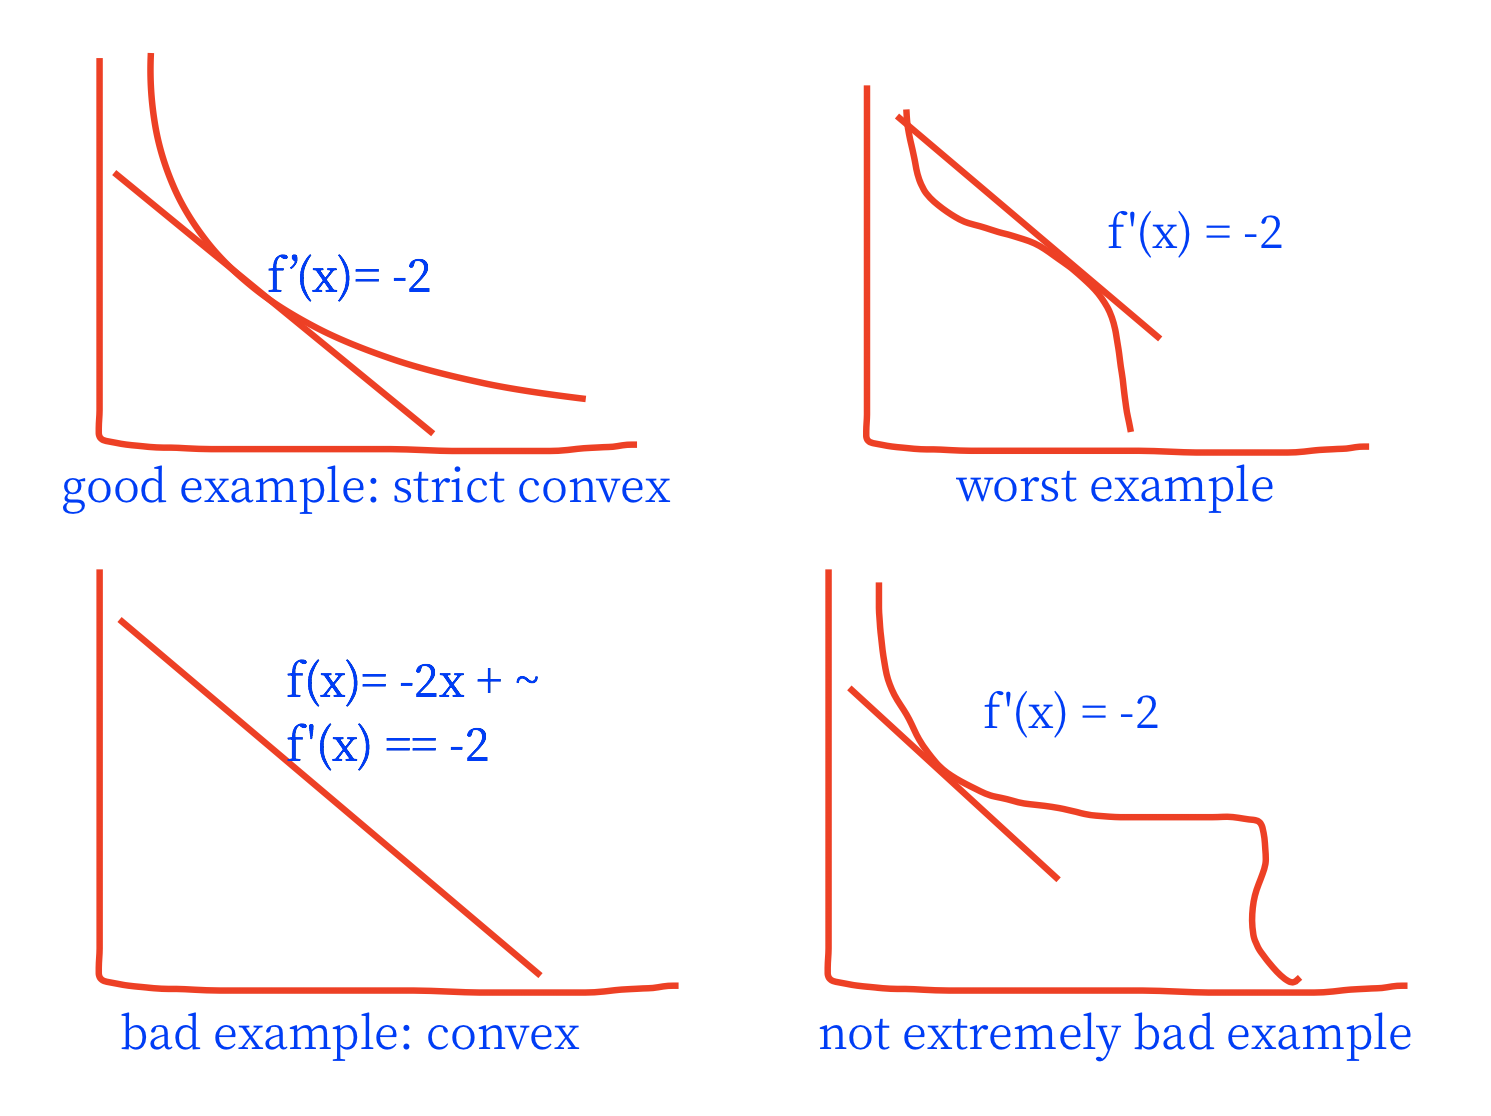
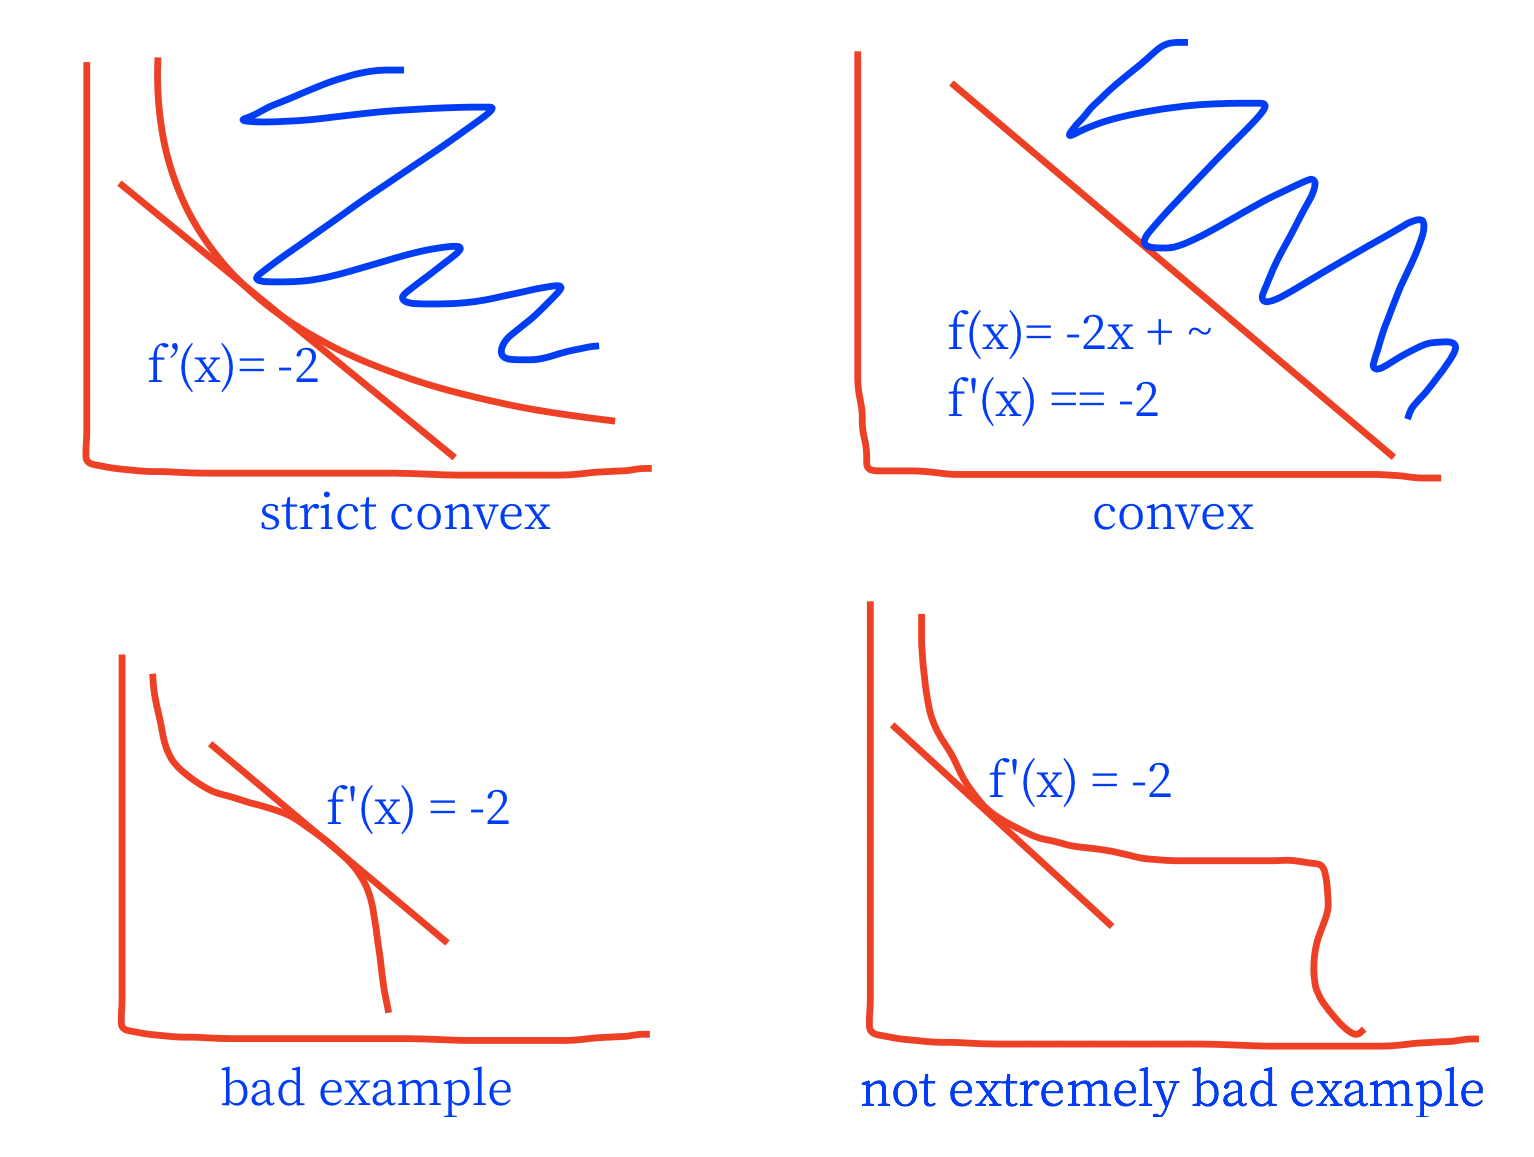
update 20190125-1659
debug on micro--HM6

diff --git a/2019/01/notes-micro/index.html b/2019/01/notes-micro/index.html
@@ -368,8 +368,9 @@ Since <span class="math inline">\(C\big(\{x,y\}\big)\neq 0\)</span>, <span class
 </li>
 <li>Transitivity<br />
 Let <span class="math inline">\(x\in C\big(\{x,y\}\big)\)</span> and <span class="math inline">\(y\in C\big(\{y,z\}\big)\)</span><br />
-By WA, <span class="math inline">\(z\in C\big(\{x,y,z\}\big)\)</span> <span class="math inline">\(\implies\)</span> <span class="math inline">\(y\in C\big(\{x,y,z\}\big)\)</span>, and <span class="math inline">\(y\in C\big(\{x,y,z\}\big)\)</span> <span class="math inline">\(\implies\)</span> <span class="math inline">\(x\in C\big(\{x,y,z\}\big)\)</span><br />
-<span class="math inline">\(\implies\)</span> it is always true that <span class="math inline">\(x\in C\big(\{x,y,z\}\big)\)</span><br />
+Since by WA, <span class="math inline">\(y\in C\big(\{x,y,z\}\big)\)</span> <span class="math inline">\(\implies\)</span> <span class="math inline">\(x\in C\big(\{x,y,z\}\big)\)</span><br />
+and <span class="math inline">\(z\in C\big(\{x,y,z\}\big)\)</span> <span class="math inline">\(\implies\)</span> <span class="math inline">\(y\in C\big(\{x,y,z\}\big)\)</span> <span class="math inline">\(\implies\)</span> <span class="math inline">\(x\in C\big(\{x,y,z\}\big)\)</span><br />
+<span class="math inline">\(\implies x\in C\big(\{x,y,z\}\big)\)</span> always holds<br />
 <span class="math inline">\(\implies x\in C\big(\{x,z\}\big)\)</span><br />
 <span class="math inline">\(\implies x\succsim z\)</span><br />
 </li>
@@ -429,19 +430,6 @@ Is this behavior consistent with the maximization of a monotonic, continuous and
 <li>Convexity: <span class="math inline">\(x\succsim y\implies\)</span> <span class="math inline">\(λx + (1-λ)y\succsim y\)</span>, for all <span class="math inline">\(λ\in (0,1)\)</span></li>
 <li>Strict convexity: <span class="math inline">\(x, x&#39;\succsim y\implies\)</span> <span class="math inline">\(λx + (1-λ)x&#39;\succ y\)</span>, for all <span class="math inline">\(λ\in (0,1)\)</span></li>
 </ul>
-<blockquote>
-<p>HM7<br />
-Assume a consumer has preferences on <span class="math inline">\(\mathbb{R}^2\)</span><br />
-s.t. the indifference curve through <span class="math inline">\(x = (1, 1)\)</span> can be described as the graph of <span class="math inline">\(f : \mathbb{R} → \mathbb{R}\)</span>.<br />
-1. What can be said about the differentiability of the preferences at <span class="math inline">\(x\)</span> if <span class="math inline">\(f\)</span> is known to be differentiable with <span class="math inline">\(f&#39;(x) = −2\)</span>?<br />
-2. What can be said if in addition <span class="math inline">\(f\)</span> is a convex function?</p>
-</blockquote>
-<ol style="list-style-type: decimal">
-<li>Nothing<br />
-</li>
-<li>If <span class="math inline">\(f\)</span> is strictly convex, then there is unique and best <span class="math inline">\(x\)</span> s.t. <span class="math inline">\(f&#39;(x) = −2\)</span><br />
-<img src="/post-img/notes-micro--hm7.png" width="497" /></li>
-</ol>
 </div>
 <div id="homothetic-preference" class="section level3">
 <h3>Homothetic Preference</h3>
@@ -471,6 +459,19 @@ Consider a world with 2 commodities.<br />
 1. What does it mean for a preference to be differentiable? (omitted)<br />
 2. Show that the preferences induced by utility function <span class="math inline">\(u\big((x, y)\big) = \min(x, y)\)</span> are not differentiable.</p>
 </blockquote>
+<blockquote>
+<p>HM7<br />
+Assume a consumer has preferences on <span class="math inline">\(\mathbb{R}^2\)</span><br />
+s.t. the indifference curve through <span class="math inline">\(x = (1, 1)\)</span> can be described as the graph of <span class="math inline">\(f : \mathbb{R} → \mathbb{R}\)</span>.<br />
+1. What can be said about the <strong>differentiability of the preferences</strong> (improvement direction) at <span class="math inline">\(x\)</span> if <span class="math inline">\(f\)</span> is known to be differentiable with <span class="math inline">\(f&#39;(x) = −2\)</span>?<br />
+2. What can be said if in addition <span class="math inline">\(f\)</span> is a convex function?</p>
+</blockquote>
+<ol style="list-style-type: decimal">
+<li>Not determined<br />
+</li>
+<li>If <span class="math inline">\(f\)</span> is convex, then <span class="math inline">\(D(x)\)</span> is the set of improvements<br />
+<img src="/post-img/notes-micro--hm7.png" width="512" /></li>
+</ol>
 </div>
 </div>
 <div id="demand" class="section level2">

diff --git a/2018/01/rmd-template/index.html b/2018/01/rmd-template/index.html
@@ -104,6 +104,7 @@
 <li><a href="#r-code-chunk">R Code Chunk</a></li>
 <li><a href="#r-code-inline">R Code (Inline)</a></li>
 <li><a href="#code-from-other-languages">Code from Other Languages</a></li>
+<li><a href="#latex">LaTeX</a></li>
 <li><a href="#reference-1">Reference</a></li>
 </ul></li>
 <li><a href="#image-reference">Image Reference</a></li>
@@ -169,6 +170,10 @@ Always check twice and preview the <code>.html</code> page.</p>
 which all failed while all I wanted to display was this:<br />
 <img src="/post-img/rmd-template--latex-code.png" width="90" /><br />
 This is hilarious. Currently I don’t have time to dig into this, but one day I will.</p>
+</div>
+<div id="latex" class="section level3">
+<h3>LaTeX</h3>
+<p><a href="https://tex.stackexchange.com/questions/171711/how-to-include-latex-package-in-r-markdown">knitr - How to include LaTeX package in R Markdown? - TeX - LaTeX Stack Exchange</a></p>
 </div>
 <div id="reference-1" class="section level3">
 <h3>Reference</h3>
